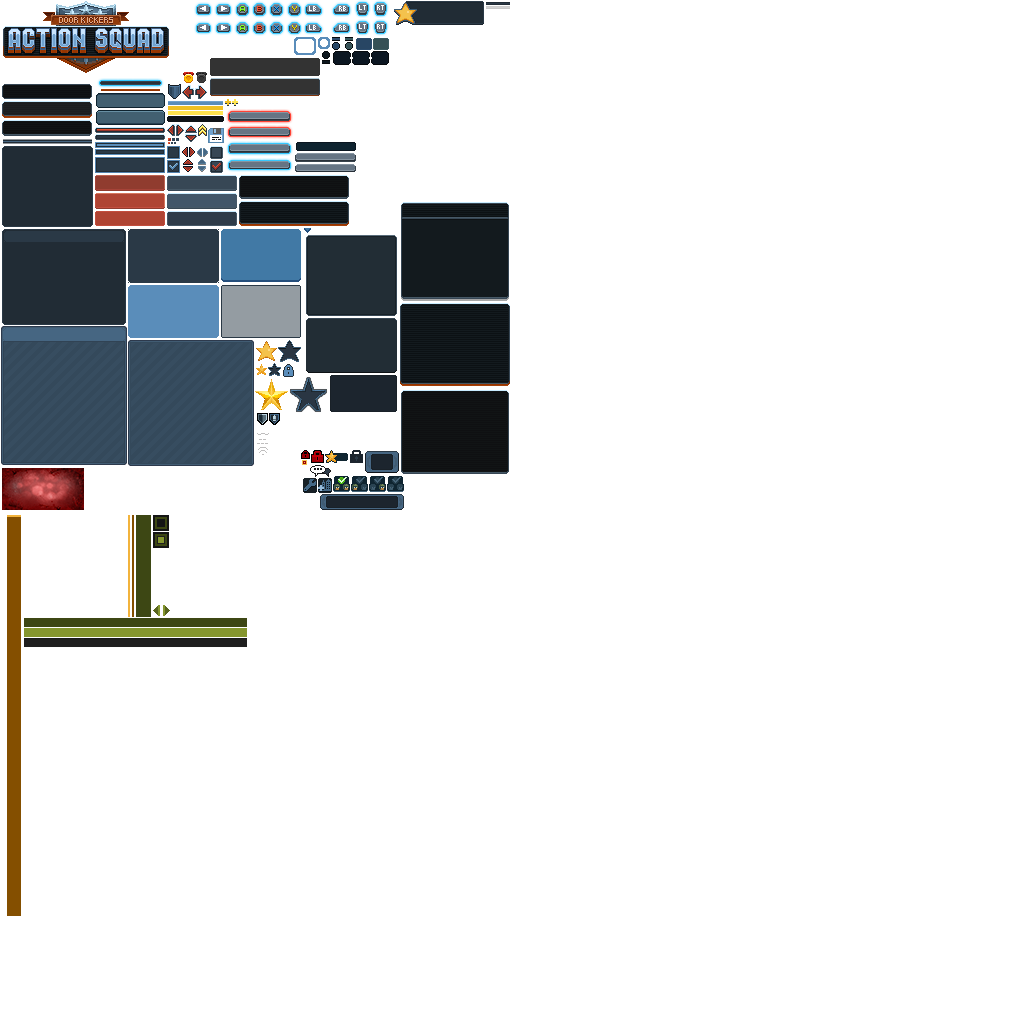
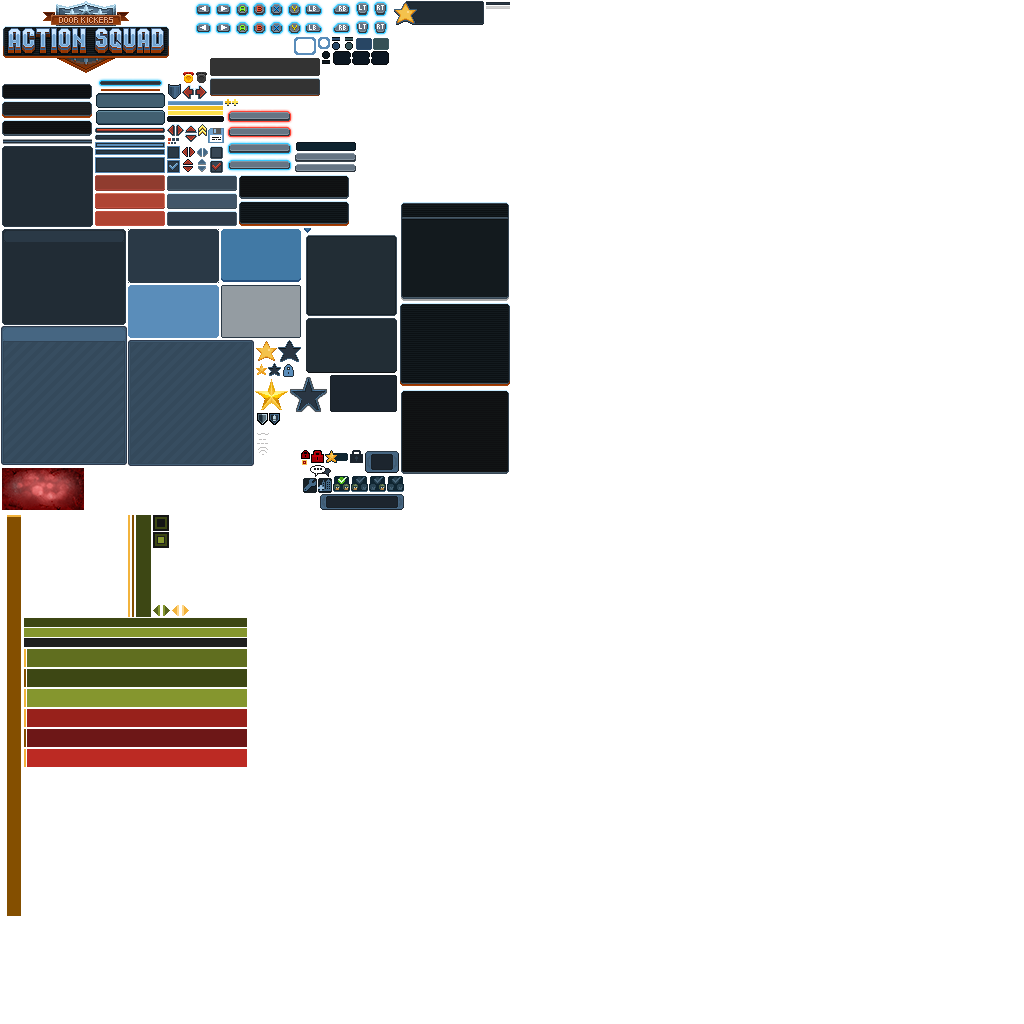
part of main menu implemented

Changed region(s): [[0.0, 0.625, 0.25, 0.75]]

diff --git a/BreacherSquad/Source/Engine/ControlsManager.cpp b/BreacherSquad/Source/Engine/ControlsManager.cpp
@@ -8,6 +8,7 @@ CSpriteCollection* CControl::m_pSprCol = nullptr;
 enum EControlType {
 	CCTRL_TYPE_WINDOW = 0,
 	CCTRL_TYPE_PANEL,
+	CCTRL_TYPE_PANELSM,						// panel without focus rect and icon
 	CCTRL_TYPE_BUTTON,						//params: fHoverPercent, nMsgParam - nMsgParam is sent to handler for processing
 	CCTRL_TYPE_LABEL,
 	CCTRL_TYPE_BLINKING_LABEL,
@@ -44,6 +45,7 @@ CStringHash EControlTypeNames[] =
 {
 	L"Window",
 	L"Panel",
+	L"PanelSM",
 	L"Button",
 	L"Label",
 	L"BlinkingLabel",
@@ -975,7 +977,7 @@ void CControl::Update( float dTime, float fTimeline )
 				statusFlags &= ~CCTRL_STATUS_FLAG_CLICKEDUP;
 			}
 
-			//aflu numarul maxim de optiuni
+			// get number of options
 			int optcnt = 0;
 			for ( int ll = 0; ll < 10; ll++ )
 			{
@@ -2077,9 +2079,9 @@ void CControl::Paint( CCameraTransform *pCamera, Mat * matWorld )
 				drawDebugText( BBox.x, BBox.y, L"Invalid font ID!" );
 				return;
 			}
-			if ( ( animIdx >= 0 ) && ( m_pSprCol->Animations[ animIdx ]->aframesNo < 2 ) )
+			if ( ( animIdx >= 0 ) && ( m_pSprCol->Animations[ animIdx ]->aframesNo < 3 ) )
 			{
-				drawDebugText( BBox.x, BBox.y, L"Invalid animIdx. Needs 2 frames." );
+				drawDebugText( BBox.x, BBox.y, L"Invalid animIdx. Needs 3 frames." );
 				return;
 			}
 
@@ -2092,13 +2094,12 @@ void CControl::Paint( CCameraTransform *pCamera, Mat * matWorld )
 			DWORD wcol = DW_COLOR_FFFA( layer->alpha );
 			//cursor size
 			RectXYWHi currRect( 0, 0, BBox.w, vSpacing );
-			if ( animIdx >= 0 )
-				currRect = m_pSprCol->GetAFrameBBox( animIdx, 0 );
 
 			int curidx = 0;
 			for ( int ll = 0; ll < 8; ll++ ) //max 8 string options
 			{
 				float selperc = max( 0.0f, 1.0f - fabs( ( float ) ll - fSelectionCursor ) );
+				float invselperc = 1.0f - selperc;
 				int nDisFlag = 1 << ll;
 				bool bDisabledLocal = ( ( nDisabledFlags & nDisFlag ) != 0 );
 
@@ -2113,21 +2114,22 @@ void CControl::Paint( CCameraTransform *pCamera, Mat * matWorld )
 					//paint cursor
 					if ( animIdx >= 0 )
 					{
-						int selFrame = 0; //small button
-
-						RectXYWHi rectButAnim = m_pSprCol->GetAFrameBBox( animIdx, selFrame );
-
-						UTSprite::PaintFrame( m_pSprCol, BBox_inflated.x + selperc * 15.0f, BBox_inflated.y + vSpacing * curidx, animIdx, selFrame, wcol );
-						//paint selected cursor
 						if ( selperc > 0.0f )
-							UTSprite::PaintFrame( m_pSprCol, BBox_inflated.x + selperc * 15.0f, BBox_inflated.y + vSpacing * curidx, animIdx, selFrame + 1, DW_COLOR_FFFA( selperc ) );
+						{
+							// paint filler under the selection
+							DWORD bgcol = DW_COLORALPHA( GUIUtils::colPanelIdle, layer->alpha * selperc );
+							UTSprite::PaintFModuleStretched( m_pSprCol, Vec2( BBox_inflated.x - invselperc * 10.0f, BBox_inflated.y + vSpacing * curidx ), animIdx, 0, 0, bgcol, BBox_inflated.w + invselperc * 20.0f, currRect.h );
+							//paint selected cursor
+							UTSprite::PaintFrame( m_pSprCol, BBox_inflated.x + selperc * 15.0f, BBox_inflated.y + vSpacing * curidx + currRect.h / 2, animIdx, 1, DW_COLOR_FFFA( selperc ) );
+							UTSprite::PaintFrame( m_pSprCol, BBox_inflated.Right() - selperc * 15.0f, BBox_inflated.y + vSpacing * curidx + currRect.h / 2, animIdx, 2, DW_COLOR_FFFA( selperc ) );
+						}
 					}
 
 					//and string
-					D3DXCOLOR exitcol;
-					D3DXColorLerp( &exitcol, &( D3DXCOLOR ) dwFontColor, &( D3DXCOLOR ) wcol, selperc );
+					DWORD exitcol;
+					exitcol = DW_COLOR_LERP( dwFontColor, wcol, selperc );
 					if ( bDisabledLocal )
-						exitcol = DW_COLORALPHA( ( DWORD ) exitcol, 0.5f );
+						exitcol = DW_COLORALPHA( exitcol, 0.5f );
 
 					Vec2 vTextOffset( selperc * 15.0f, 0.0f );
 					if ( textAlignFlags & FONTFLAG_ANCHOR_CENTER )
@@ -2193,7 +2195,7 @@ void CControl::Paint( CCameraTransform *pCamera, Mat * matWorld )
 
 		case CCTRL_TYPE_BUTTON:
 		{
-			if ( ( animIdx < 0 ) || ( animIdx >= m_pSprCol->animationNo ) || ( m_pSprCol->Animations[ animIdx ]->aframesNo < 3 ) )
+			if ( ( animIdx < 0 ) || ( animIdx >= m_pSprCol->animationNo ) || ( m_pSprCol->Animations[ animIdx ]->aframesNo < 5 ) )
 			{
 				drawDebugText( BBox.x, BBox.y, L"Invalid animIdx or frame count" );
 				return;
@@ -2203,17 +2205,14 @@ void CControl::Paint( CCameraTransform *pCamera, Mat * matWorld )
 			DWORD wcol = DW_COLORVALUE( dCol, dCol, dCol, layer->alpha );
 
 			Vec2 butC( ( int ) ( BBox.x + BBox.w / 2.0f ), ( int ) ( BBox.y + BBox.h / 2.0f ) );
-
-			if ( ( statusFlags & CCTRL_STATUS_FLAG_CLICKED ) != 0 )
+			bool bPressed = ((statusFlags & CCTRL_STATUS_FLAG_CLICKED) != 0);
+			bool bHover = ((statusFlags & CCTRL_STATUS_FLAG_HOVER) != 0);
+			float hoverPerc = 0.0f;
+			if ( bHover )
 			{
-				GUIUtils::DrawHTilingAnim( m_pSprCol, animIdx, 6, BBox, wcol );
+				hoverPerc = paramsDict.GetVariantByName( L"fHoverPercent" )->m_asFloat;
 			}
-			else if ( ( statusFlags & CCTRL_STATUS_FLAG_HOVER ) != 0 )
-			{
-				GUIUtils::DrawHTilingAnim( m_pSprCol, animIdx, 3, BBox, wcol );
-			}
-			else
-				GUIUtils::DrawHTilingAnim( m_pSprCol, animIdx, 0, BBox, wcol );
+			GUIUtils::DrawButton( m_pSprCol, animIdx, BBox, bPressed, hoverPerc, 1.0f, layer->alpha );
 
 			//text
 			if ( stringIdx >= 0 )
@@ -2224,7 +2223,7 @@ void CControl::Paint( CCameraTransform *pCamera, Mat * matWorld )
 					if ( ( statusFlags & CCTRL_STATUS_FLAG_CLICKED ) != 0 )
 						offy = 1;
 
-					__TexFonts().fonts[ fontIdx ]->DrawStringScaleW( stringIdx, butC.x, butC.y + offy, BBox.w, FONTFLAG_ANCHOR_VCENTERHCENTER, dwFontColor );
+					__TexFonts().fonts[ fontIdx ]->DrawString( stringIdx, butC.x, butC.y + offy, FONTFLAG_ANCHOR_VCENTERHCENTER, dwFontColor );
 				}
 				else
 				{
@@ -2260,6 +2259,20 @@ void CControl::Paint( CCameraTransform *pCamera, Mat * matWorld )
 			GUIUtils::DrawPanel( m_pSprCol, BBox_inflated, 1.0f, layer->alpha, ANM_CONTROLS_SPR_PANELICONS, iconFrame );
 		}
 		break;
+
+		case CCTRL_TYPE_PANELSM:
+		{
+			if ( (animIdx < 0) || (animIdx >= m_pSprCol->animationNo) || (m_pSprCol->Animations[ animIdx ]->aframesNo < 2) )
+			{
+				drawDebugText( BBox.x, BBox.y, L"Invalid animIdx" );
+				return;
+			}
+
+			int iconFrame = paramsDict.GetVariantByName( L"iconFrame" )->m_asINT32;
+			GUIUtils::DrawPanelSM( m_pSprCol, BBox_inflated, 1.0f, layer->alpha );
+		}
+		break;
+
 		case CCTRL_TYPE_SDL_KEYREADER:
 		{
 			RectXYWHi movedB = BBox;
@@ -2579,18 +2592,18 @@ void CControl::Paint( CCameraTransform *pCamera, Mat * matWorld )
 			if ( bChecked )
 				frame = 1;
 
-			DWORD wcol = DW_COLOR_FFFA( layer->alpha );
-			UTSprite::PaintFrame( m_pSprCol, BBox.x, BBox.y, animIdx, frame, wcol );
-
-			//hover frame
-			if ( hoverPercent > 0.0f )
-			{
-				UTSprite::PaintFrame( m_pSprCol, BBox.x, BBox.y, animIdx, frame, DW_COLOR_FFFA( hoverPercent * 0.5f ) );
-			}
+			// actual checkbox
+			UTSprite::PaintFrame( m_pSprCol, BBox.x, BBox.y, animIdx, frame, dwColor );
+			// panel
+			RectXYWHi checkrct = m_pSprCol->GetAFrameBBox( animIdx, 0 );
+			RectXYWHi panelrect( BBox );
+			panelrect.x += checkrct.w + 2; 
+			panelrect.w -= checkrct.w + 2;
+			GUIUtils::DrawPanelSM( m_pSprCol, panelrect, 1.0f, layer->alpha );
 
 			if ( fontIdx >= 0 )
 			{
-				__TexFonts().fonts[ fontIdx ]->DrawString( stringIdx, BBox.x + BBox.w + 2, BBox.y + BBox.h / 2.0f, FONTFLAG_ANCHOR_VCENTERLEFT, dwFontColor );
+				__TexFonts().fonts[ fontIdx ]->DrawString( stringIdx, panelrect.x + 5, panelrect.CenterY(), FONTFLAG_ANCHOR_VCENTERLEFT, dwFontColor );
 			}
 			else
 			{
@@ -3425,6 +3438,54 @@ void GUIUtils::DrawProgress( CSpriteCollection *sprCol, int animIdx, RectXYWHi B
 	RectXYWHi cliprect = BBox;
 	cliprect.w = ( int ) ceil( fPercentFull * cliprect.w );
 	UTSprite::PaintFModuleStretched( sprCol, Vec2( BBox.x, BBox.CenterY() ), animIdx, 2, 0, DW_COLOR_FFFA( fAlpha ), cliprect.w );
+}
+
+void GUIUtils::DrawPanelSM( CSpriteCollection *sprCol, RectXYWHi BBox, float fFocusPercent, float fAlpha /*= 1.0f */ )
+{
+	// default panel anim
+	int animIdx = ANM_CONTROLS_SPR_PANEL1;
+	// get thin bar width
+	RectXYWHi leftSz1 = sprCol->GetAFrameBBox( animIdx, 1 );
+	// extend box to the left
+	int nLeftSize = leftSz1.w;
+	RectLTRB clipwin( BBox );
+	clipwin.left -= nLeftSize;
+	Vec2 vUL( clipwin.left, clipwin.top );
+
+	DWORD dwPanelColor = DW_COLOR_LERP( colPanelIdle, colPanelFocused, fFocusPercent );
+	DWORD dwFocusAlpha = DW_COLOR_FFFA( fFocusPercent * fAlpha );
+	DWORD dwAlpha = DW_COLOR_FFFA( fAlpha );
+	// paint base
+	UTSprite::PaintFModuleStretched( sprCol, Vec2(BBox.x, BBox.y), animIdx, 0, 0, DW_COLORALPHA( dwPanelColor, fAlpha ), BBox.w, BBox.h );
+	// paint thin bar
+	UTSprite::PaintFModuleClipped( sprCol, vUL, animIdx, 2, 0, clipwin, dwAlpha );
+	UTSprite::PaintFModuleClipped( sprCol, vUL, animIdx, 1, 0, clipwin, dwFocusAlpha );
+}
+
+void GUIUtils::DrawButton( CSpriteCollection *sprCol, int animIdx, RectXYWHi BBox, bool bPressed, float fHoverPercent, float fFocusPercent, float fAlpha /*= 1.0f*/ )
+{
+	// get thin bar width
+	RectXYWHi leftSz1 = sprCol->GetAFrameBBox_real( animIdx, 3 );
+	// extend box to the left
+	int nLeftSize = leftSz1.w;
+	RectLTRB clipwin( BBox );
+	clipwin.left -= nLeftSize; 
+	Vec2 vUL( clipwin.left, clipwin.top );
+
+	DWORD dwFocusAlpha = DW_COLOR_FFFA( fFocusPercent * fAlpha );
+	DWORD dwHoverAlpha = DW_COLOR_FFFA( fHoverPercent * fFocusPercent * fAlpha );
+	DWORD dwAlpha = DW_COLOR_FFFA( fAlpha );
+	// paint base
+	int nframe = 0;
+	if ( bPressed )
+		nframe = 2;
+	RectLTRB clipbut( BBox );
+	UTSprite::PaintFModuleClipped( sprCol, Vec2(BBox.x, BBox.y), animIdx, 0, 0, clipbut, dwAlpha );
+	if(!bPressed)
+		UTSprite::PaintFModuleClipped( sprCol, Vec2( BBox.x, BBox.y ), animIdx, 1, 0, clipbut, dwHoverAlpha );
+	// paint thin bar
+	UTSprite::PaintFModuleClipped( sprCol, Vec2( vUL.x, vUL.y ), animIdx, 4, 0, clipwin, dwAlpha );
+	UTSprite::PaintFModuleClipped( sprCol, Vec2( vUL.x, vUL.y ), animIdx, 3, 0, clipwin, dwFocusAlpha );
 }
 
 void GUIUtils::DrawProgress_HeadsOutside( CSpriteCollection *sprCol, int animIdx, RectXYWHi BBox, float fPercentFull, DWORD color /*= 0xffffffff*/, int nTicks /*= 0*/ )

diff --git a/BreacherSquad/Source/Engine/ControlsManager.h b/BreacherSquad/Source/Engine/ControlsManager.h
@@ -78,7 +78,12 @@ namespace GUIUtils {
 	void DrawWindow( CSpriteCollection *sprCol, int animIdx, RectXYWHi BBox, DWORD color, int nFontIdx, int nStrIdxTitle, DWORD dwTitleColor = 0xffffffff );
 	// draws a container panel used for all selectable controls
 	void DrawPanel( CSpriteCollection *sprCol, RectXYWHi BBox, float fFocusPercent, float fAlpha, int nIconAnimIdx = -1, int nIconFrame = -1 );
-
+	// Draws a progress bar from animation with specific frames, without buttons
+	void DrawProgress( CSpriteCollection *sprCol, int animIdx, RectXYWHi BBox, float fPercentFull, float fFocus, float fAlpha = 1.0f, int nSteps = 0 );
+	// Paints a smaller panel without icon, with just the focus line on the left
+	void DrawPanelSM( CSpriteCollection *sprCol, RectXYWHi BBox, float fFocusPercent, float fAlpha = 1.0f );
+	// Draws a button centered on the specified bbox
+	void DrawButton(CSpriteCollection *sprCol, int animIdx, RectXYWHi BBox, bool bPressed, float fHoverPercent, float fFocusPercent, float fAlpha = 1.0f);
 	/*
 	* \brief Deseneaza un buton (sau input box, slider, etc) dintr-o animatie cu 3 frames (capat, centru tiling, capat)
 	* capetele butonului se deseneaza in interiorul bboxului. Capatul stanga trebuie aliniat in dreapta axei verticale in editor.
@@ -99,8 +104,6 @@ namespace GUIUtils {
 	* \param nStartFrame - frame-ul de la care incep cele 3 frames utile (daca butonul are mai multe stari in aceeasi anim, cum e si normal)
 	*/
 	void DrawHTilingAnim_HeadsOutside( CSpriteCollection *sprCol, int animIdx, int nStartFrame, RectXYWHi BBox, DWORD color = 0xffffffff );
-	// Draws a progress bar from animation with specific frames, without buttons
-	void DrawProgress( CSpriteCollection *sprCol, int animIdx, RectXYWHi BBox, float fPercentFull, float fFocus, float fAlpha = 1.0f, int nSteps = 0 );
 	/*
 	* Draws a progress bar from animation with 4 frames (left, tiling center, right, filler) - heads outside the BBox
 	*/

diff --git a/BreacherSquad/Source/Engine/Menus.cpp b/BreacherSquad/Source/Engine/Menus.cpp
@@ -47,11 +47,6 @@ void CMenus::PaintBackground( RectXYWH worldRect, DWORD dwColor, bool bPaintPart
 	// chars front layer
 	UTSprite::PaintFrame( &m_sprCol, Vec2( worldRect.x + 40.0f * sin( fLocalTimeline * 0.2f ), worldRect.y ), ANM_MENUS0_SPR_BACKGROUND, 2, dwColor );
 
-	GUIUtils::DrawWindow( &UTGetGUI().m_sprCol, ANM_CONTROLS_SPR_WINDOWS1, RectXYWHi( 200, 100, 300, 200 ), 0xffffffff, FONTIDX_8_BS1, STR_OPTIONS );
-	float ft = fabs( sin( fLocalTimeline ) );
-	GUIUtils::DrawPanel( &UTGetGUI().m_sprCol, RectXYWHi( 250, 130, 200, 50 ), 0.0f, ft, ANM_CONTROLS_SPR_PANELICONS, 0 );
-	GUIUtils::DrawPanel( &UTGetGUI().m_sprCol, RectXYWHi( 250, 190, 200, 50 ), 1.0f, ft, ANM_CONTROLS_SPR_PANELICONS, 0 );
-
 	//particles
 	if ( bPaintParticles )
 	{

diff --git a/BreacherSquad/Source/Engine/Constants/controls_SPR.h b/BreacherSquad/Source/Engine/Constants/controls_SPR.h
@@ -84,6 +84,9 @@
 #define 	ANM_CONTROLS_SPR_CHECKBOX1   81
 #define 	ANM_CONTROLS_SPR_SLIDER1   82
 #define 	ANM_CONTROLS_SPR_PANELICONS   83
+#define 	ANM_CONTROLS_SPR_BUTTON_GREEN   84
+#define 	ANM_CONTROLS_SPR_BUTTON_RED   85
+#define 	ANM_CONTROLS_SPR_VERTICAL_MENU   86
 
 //Animation names (ID)
 #define 	ANMID_CONTROLS_SPR_WINDOW1   "WINDOW1"
@@ -170,3 +173,6 @@
 #define 	ANMID_CONTROLS_SPR_CHECKBOX1   "CHECKBOX1"
 #define 	ANMID_CONTROLS_SPR_SLIDER1   "SLIDER1"
 #define 	ANMID_CONTROLS_SPR_PANELICONS   "PANELICONS"
+#define 	ANMID_CONTROLS_SPR_BUTTON_GREEN   "BUTTON_GREEN"
+#define 	ANMID_CONTROLS_SPR_BUTTON_RED   "BUTTON_RED"
+#define 	ANMID_CONTROLS_SPR_VERTICAL_MENU   "VERTICAL_MENU"

diff --git a/BreacherSquad/Source/Engine/Game.cpp b/BreacherSquad/Source/Engine/Game.cpp
@@ -493,7 +493,6 @@ void CGame::Paint( PDEVICE pDevice, ID3DXSprite* pSpr, float dTime )
 		case GAME_STATE_MAINMENU:
 		{
 			gMenus.Paint();
-			g_font12wow->DrawString( STR_TITLE, 100, 100 );
 		}
 		break;
 
